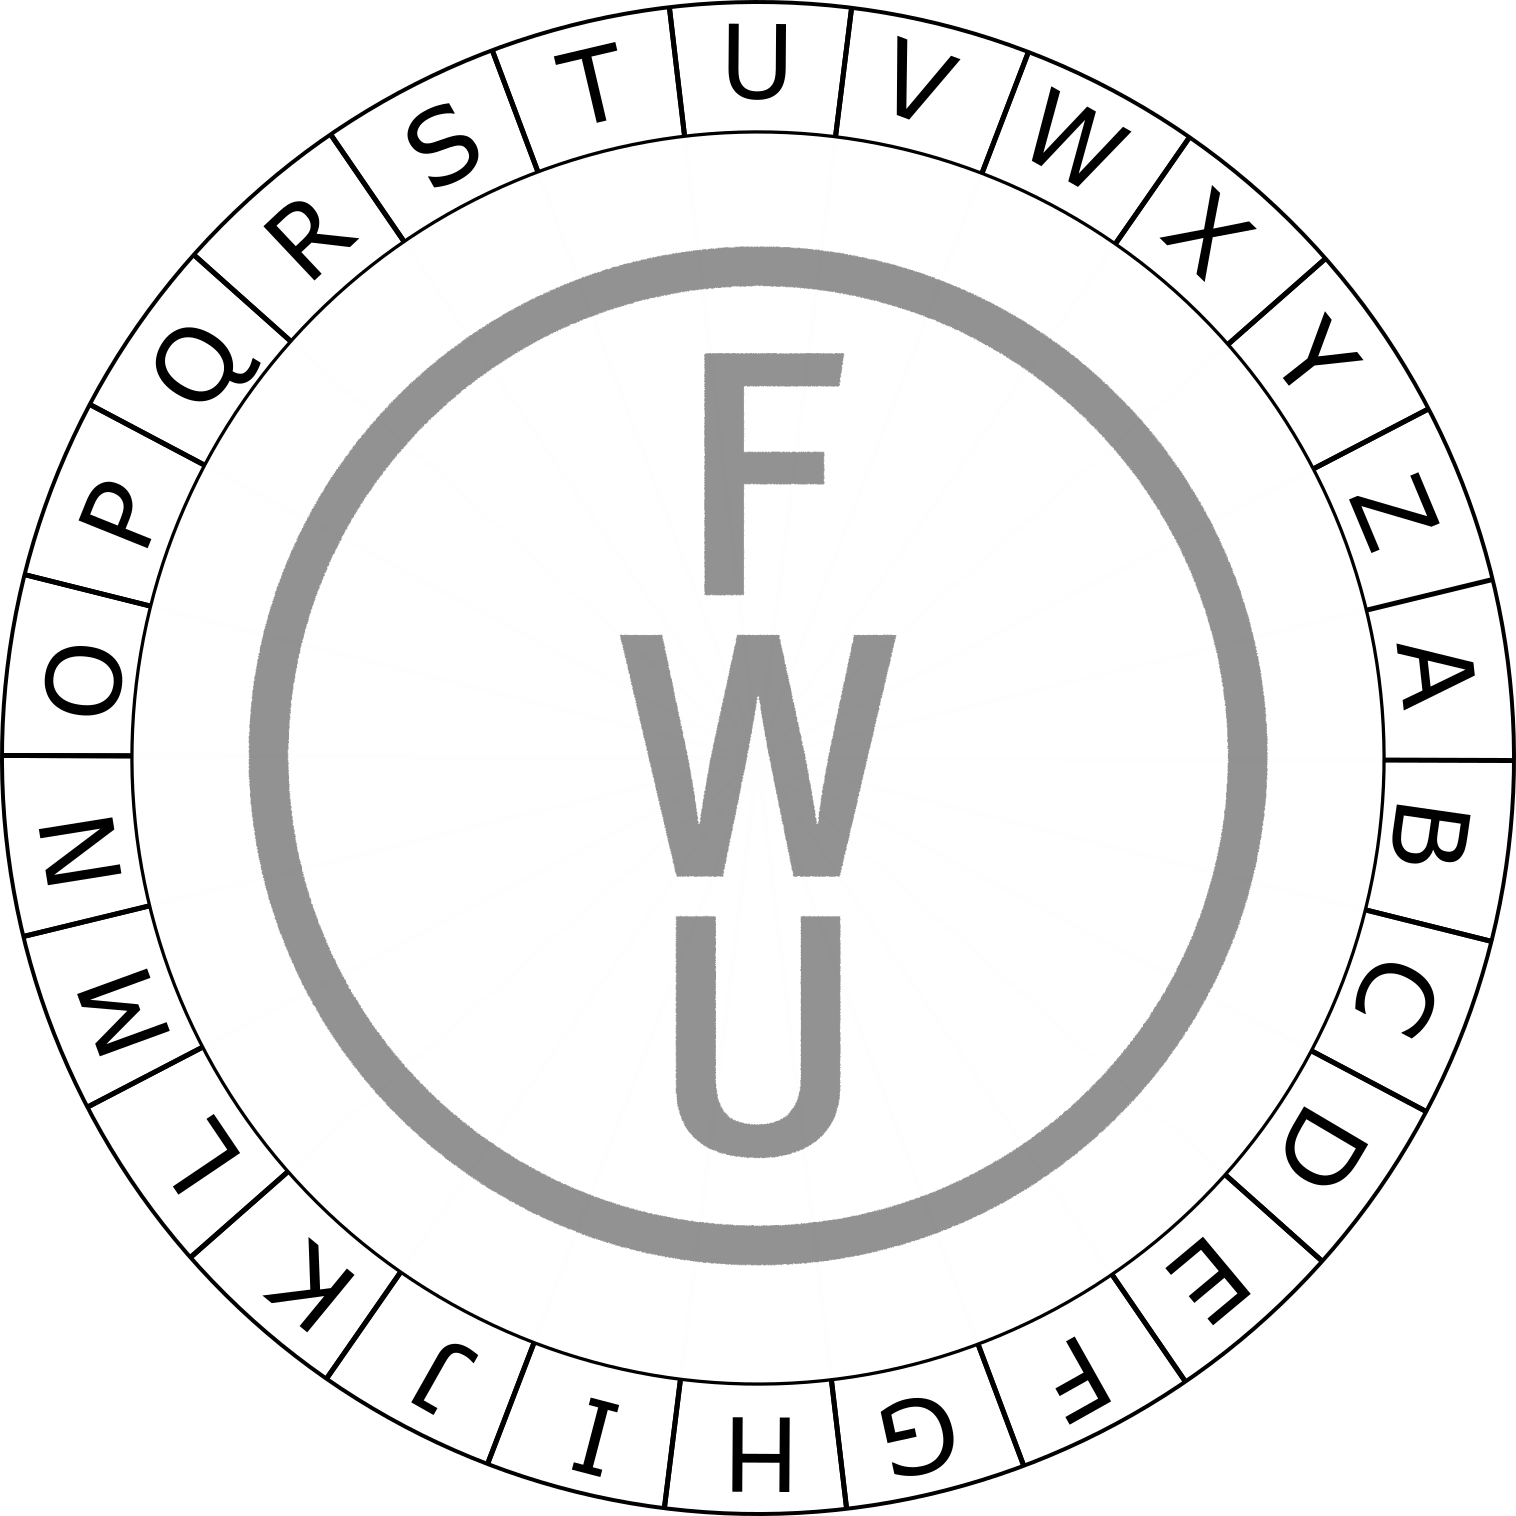
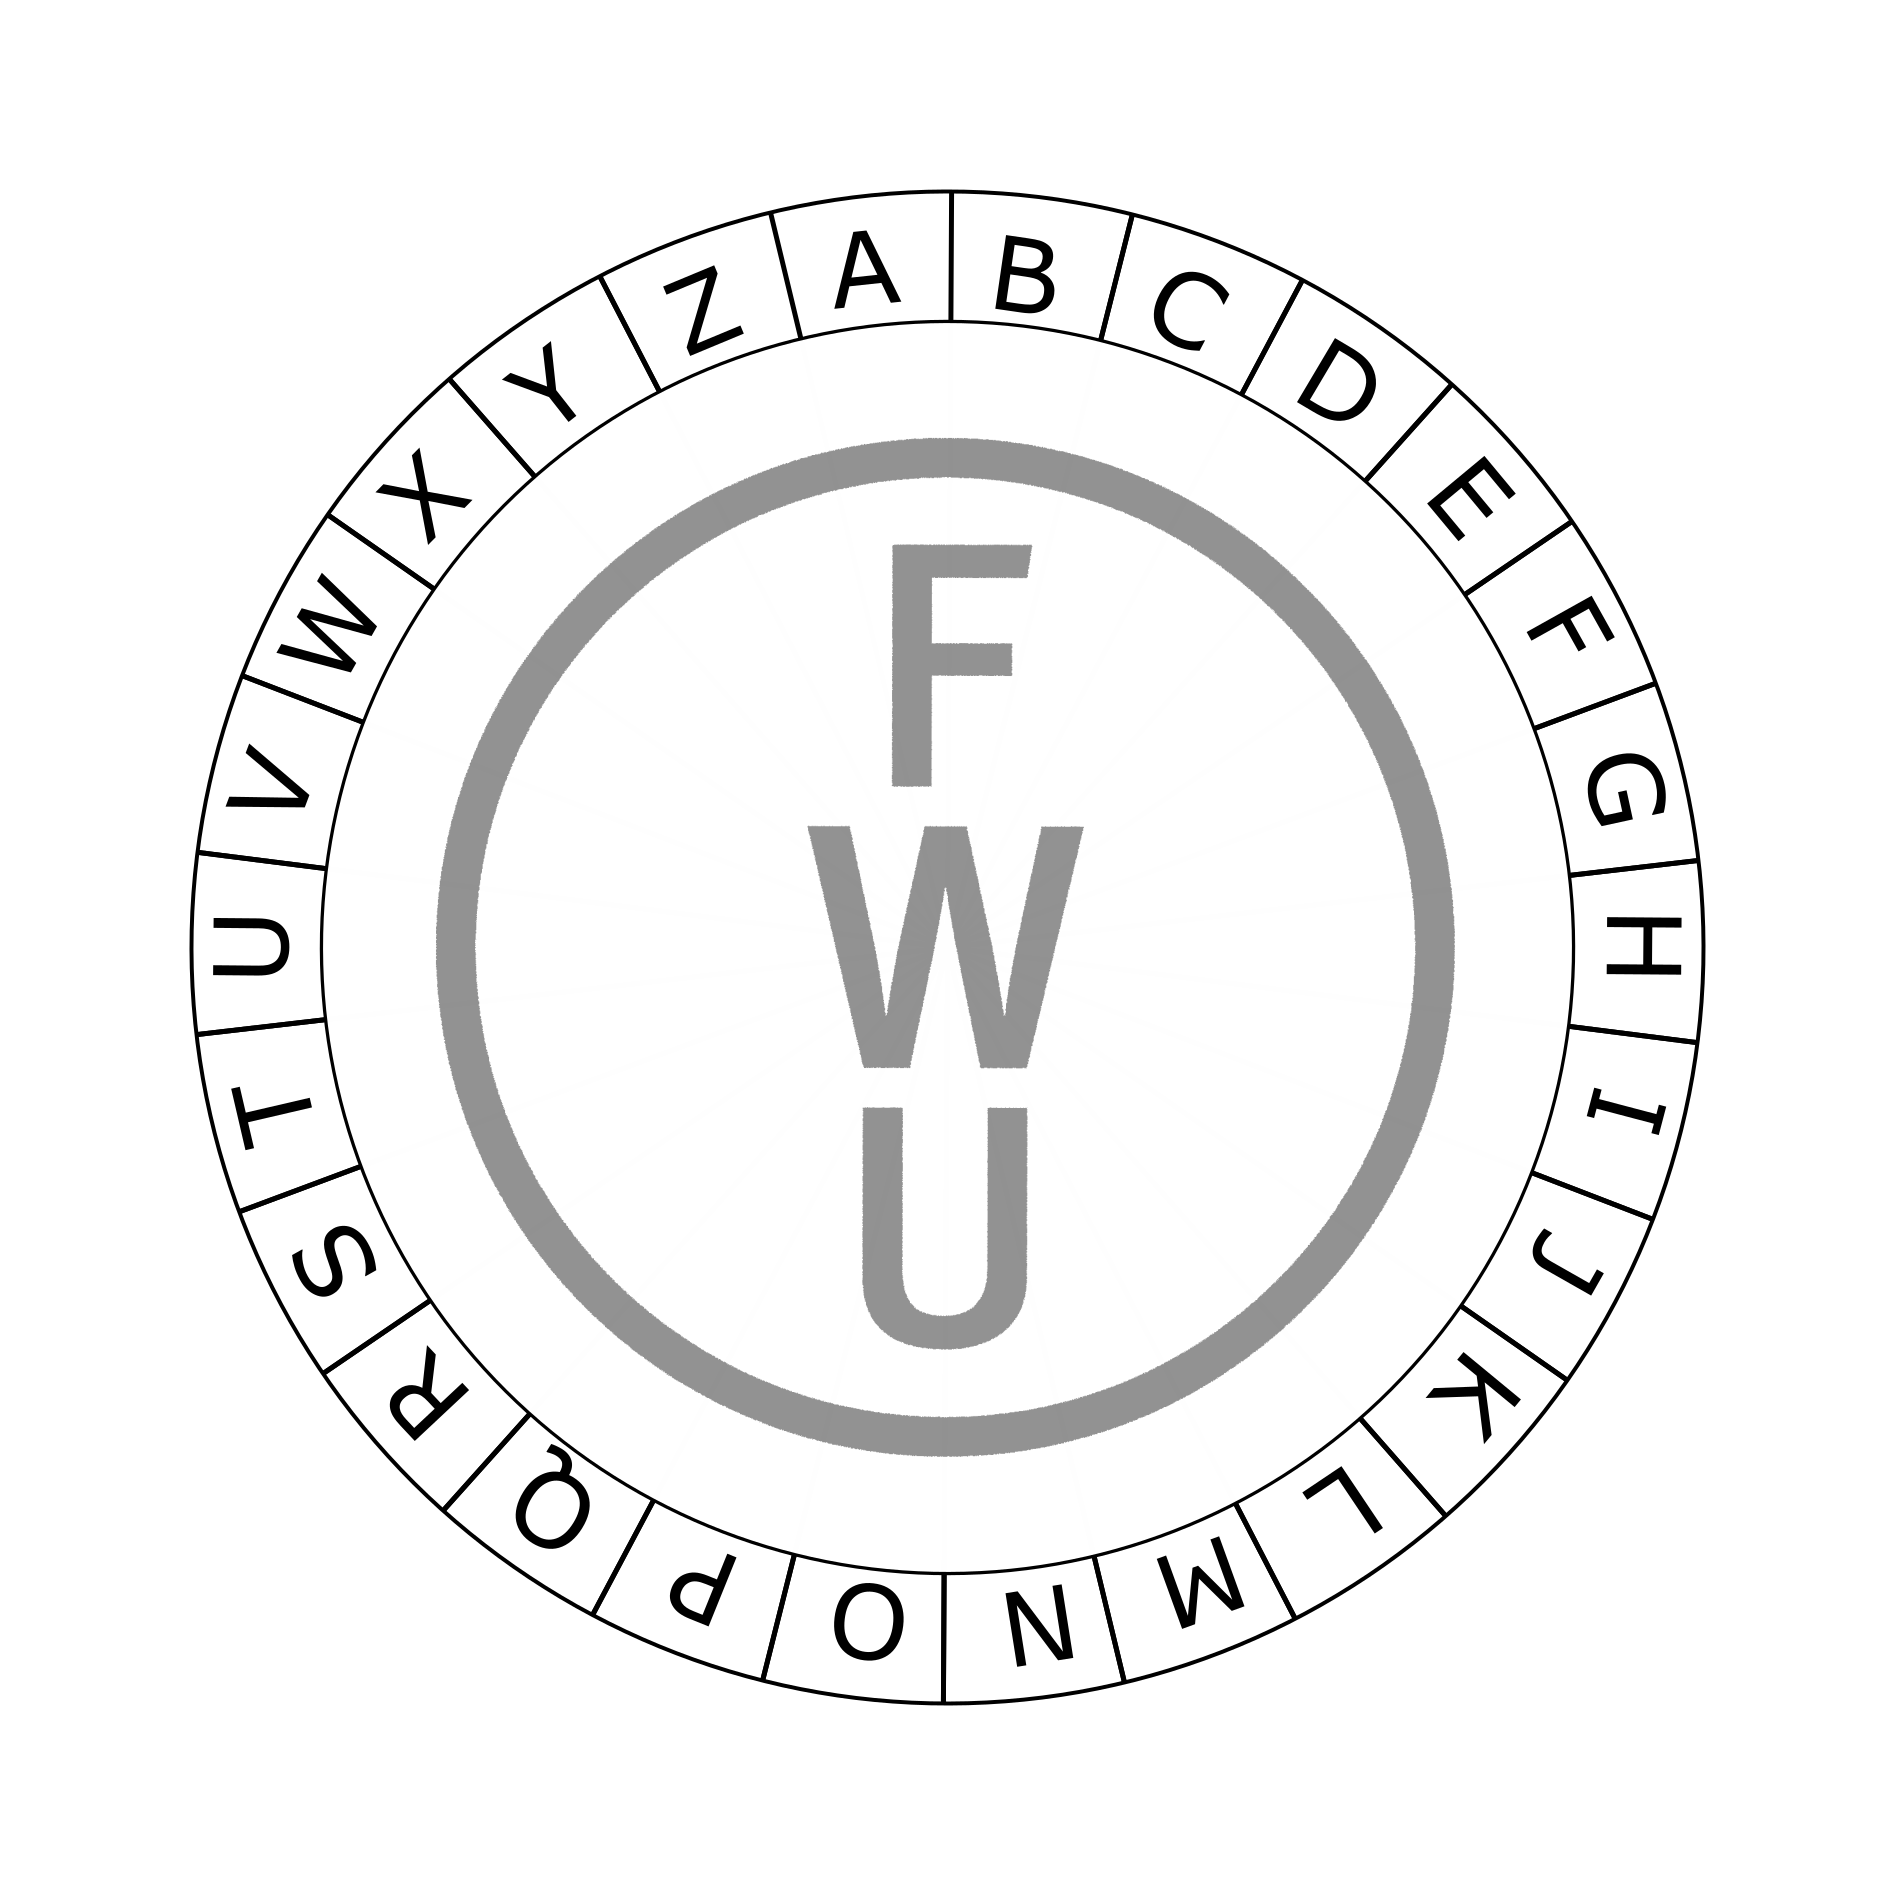
Add outer cipher disk.

diff --git a/src/components/cipher/Cipher.tsx b/src/components/cipher/Cipher.tsx
@@ -1,8 +1,9 @@
 import * as React from 'react';
-import { Grid } from '@material-ui/core';
+import { Grid, Paper } from '@material-ui/core';
 import { CipherDisks } from './cipher-disks/CipherDisks';
 import { CipherControl } from './cipher-control/CipherControl';
 import { numLatinLetters } from '../../services/CipherService';
+import styles from './Cipher.module.css';
 
 type CipherProps = {
   onClockwiseRotation: () => void,
@@ -25,16 +26,18 @@ export function Cipher(props: CipherProps) {
   };
 
   return (
-    <Grid container spacing={2}>
-      <Grid item xs={12}>
-        <CipherDisks angleDeg={angleDeg} />
+    <Paper className={styles.cipher}>
+      <Grid container spacing={2}>
+        <Grid item xs={12}>
+          <CipherDisks angleDeg={angleDeg} />
+        </Grid>
+        <Grid item xs={12}>
+          <CipherControl
+            onClockwiseRotation={handleClockwiseRotation}
+            onCounterClockwiseRotation={handleCounterClockwiseRotation}
+          />
+        </Grid>
       </Grid>
-      <Grid item xs={12}>
-        <CipherControl
-          onClockwiseRotation={handleClockwiseRotation}
-          onCounterClockwiseRotation={handleCounterClockwiseRotation}
-        />
-      </Grid>
-    </Grid>
+    </Paper>
   );
 }

diff --git a/src/App.tsx b/src/App.tsx
@@ -5,7 +5,7 @@ import { Encryption } from './components/encryption/Encryption';
 import { numLatinLetters } from './services/CipherService';
 
 export function App() {
-  const [shift, setShift] = React.useState(19);
+  const [shift, setShift] = React.useState(0);
 
   const handleClockwiseRotation = () => {
     const newShift = (shift - 1) % numLatinLetters;
@@ -22,13 +22,13 @@ export function App() {
         <Grid item xs={12}>
           <h1>Caesar-Verschlüsselung</h1>
         </Grid>
-        <Grid item xs={12} sm={6}>
+        <Grid item xs={12} md={6}>
           <Cipher
             onClockwiseRotation={handleClockwiseRotation}
             onCounterClockwiseRotation={handleCounterClockwiseRotation}
           />
         </Grid>
-        <Grid item xs={12} sm={6}>
+        <Grid item xs={12} md={6}>
           <Encryption shift={shift} />
         </Grid>
       </Grid>

diff --git a/src/components/cipher/cipher-disks/CipherDisks.tsx b/src/components/cipher/cipher-disks/CipherDisks.tsx
@@ -1,6 +1,8 @@
 import * as React from 'react';
+import { Box } from '@material-ui/core';
 import { createStyles, makeStyles } from '@material-ui/core/styles';
 import cipherInnerDisk from './CipherInnerDisk.png';
+import styles from './CipherDisks.module.css';
 
 type CipherDisksProps = {
   angleDeg: number
@@ -16,12 +18,14 @@ export function CipherDisks(props : CipherDisksProps) {
   const rotationStyle = useStyles(props);
 
   return (
-    <img
-      src={cipherInnerDisk}
-      alt="Chiffrierscheibe"
-      width="100%"
-      height="auto"
-      className={rotationStyle.rotated}
-    />
+    <Box className={styles.cipherOuterDisk}>
+      <img
+        src={cipherInnerDisk}
+        alt="Chiffrierscheibe"
+        width="100%"
+        height="auto"
+        className={rotationStyle.rotated}
+      />
+    </Box>
   );
 }

diff --git a/src/components/cipher/cipher-disks/CipherDisks.module.css b/src/components/cipher/cipher-disks/CipherDisks.module.css
@@ -1,0 +1,5 @@
+.cipherOuterDisk {
+  background-image: url("CipherOuterDisk.png");
+  background-repeat: no-repeat;
+  background-size: 100% auto;
+}

diff --git a/src/components/cipher/Cipher.module.css b/src/components/cipher/Cipher.module.css
@@ -1,0 +1,3 @@
+.cipher {
+  padding: 1rem;
+}
